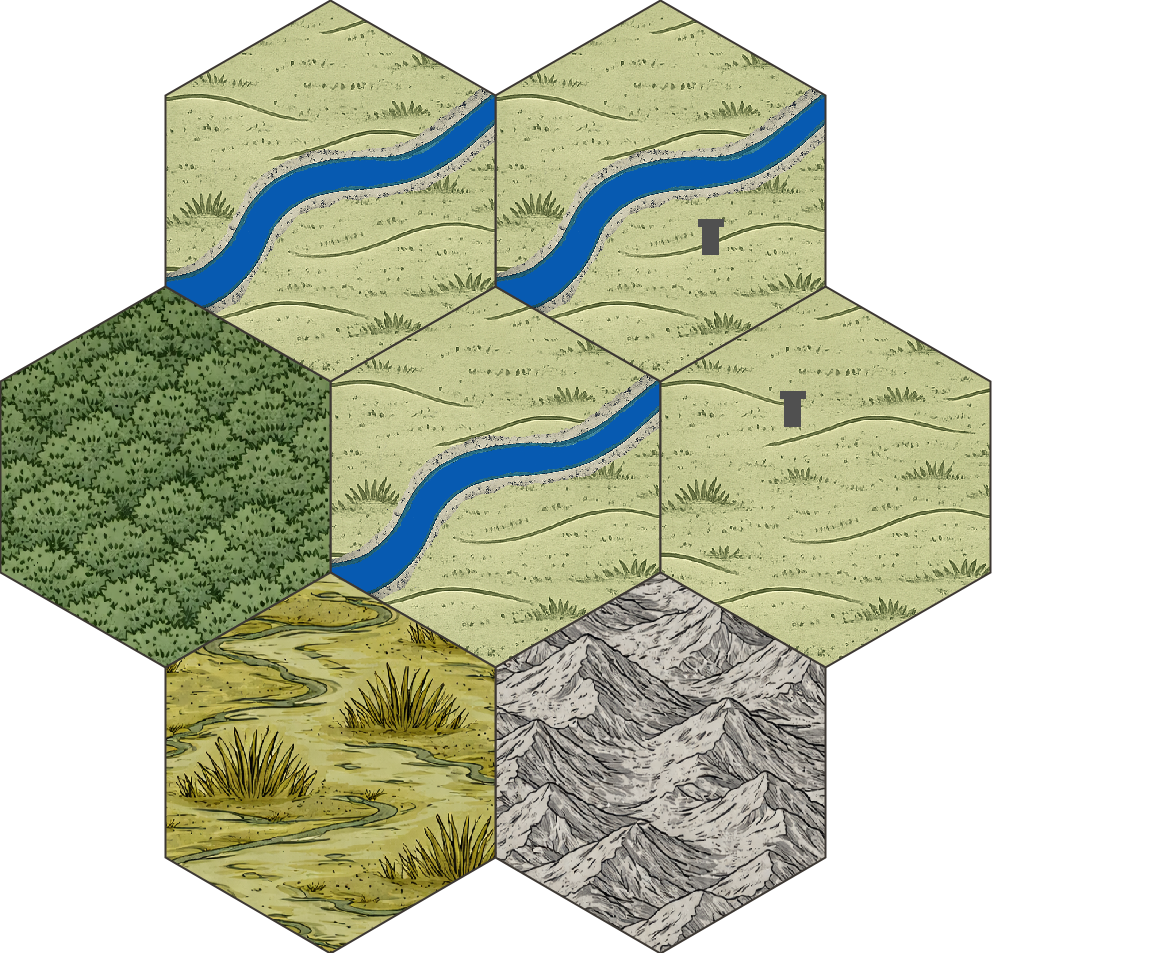
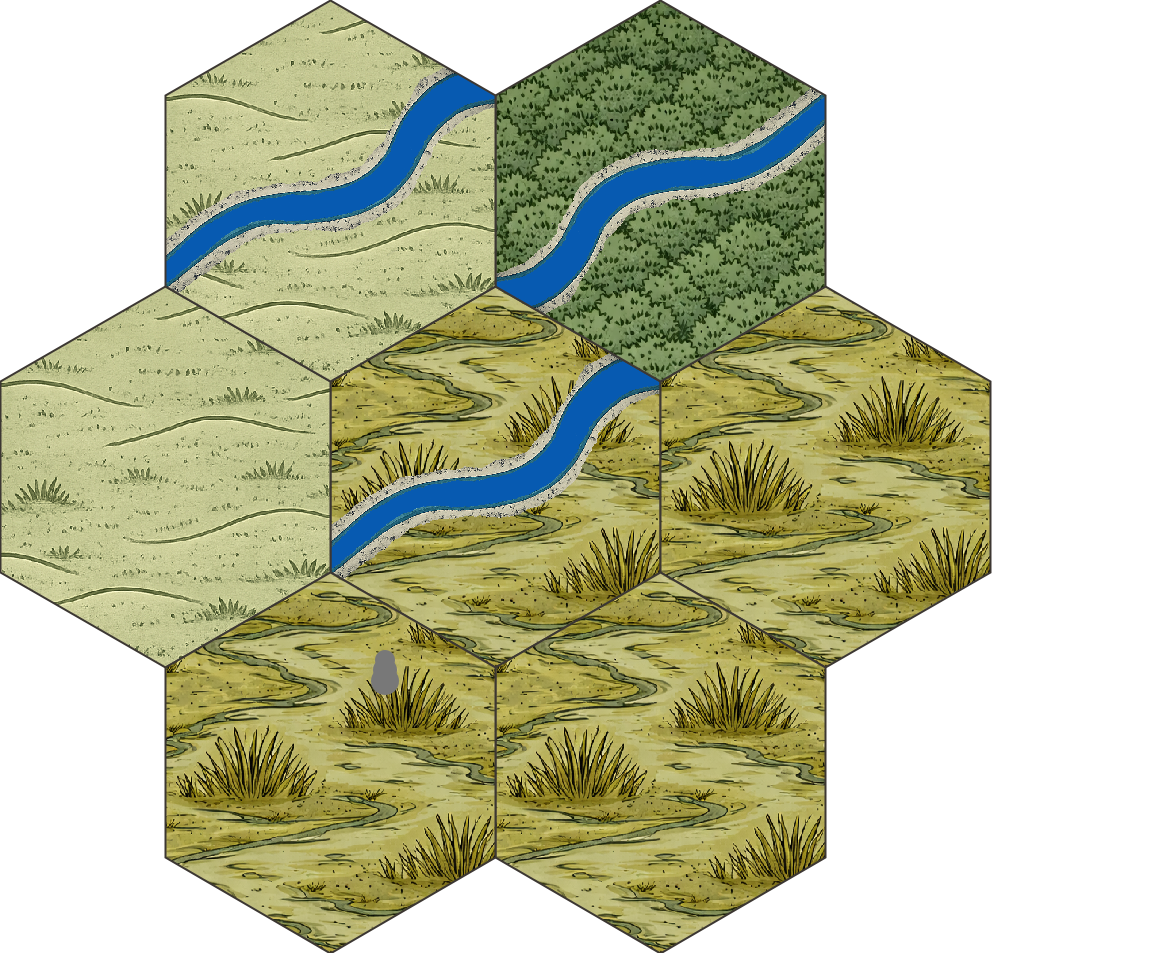
more river work

diff --git a/AGENTS.md b/AGENTS.md
@@ -164,6 +164,9 @@
   - Disconnected river components are now trimmed to the single largest connected river cluster (coasts are preserved separately).
   - Added `/hexes/random.png` route using `HexMapServer.renderHexMapPng` for PNG output; PNG rendering omits the legend, clears to transparent, and tight-crops to the hex bounds.
   - Adjusted river overlay diagonal rotations (swap NE-SW/NW-SE angles) to better align continuous rivers.
+  - River straight orientations now include a `-REV` phase (picked by hex parity) to flip the texture 180° for better across-hex continuity.
+  - River orientation scaling now strips the `-REV` suffix so boosted scales still apply to flipped rivers.
+  - River `-REV` phase now uses axis-specific parity (row/column) and single-neighbor direction hints to improve continuity across lines.
 - Code detail:
   - `randomMap` builds 7 hexes with `allowOverlay = false`, then calls `applyRiverCoastOverlays` to assign overlays based on neighbor terrain.
   - `buildHex` now has `allowOverlay` flag; overlay selection is skipped during the first pass.
